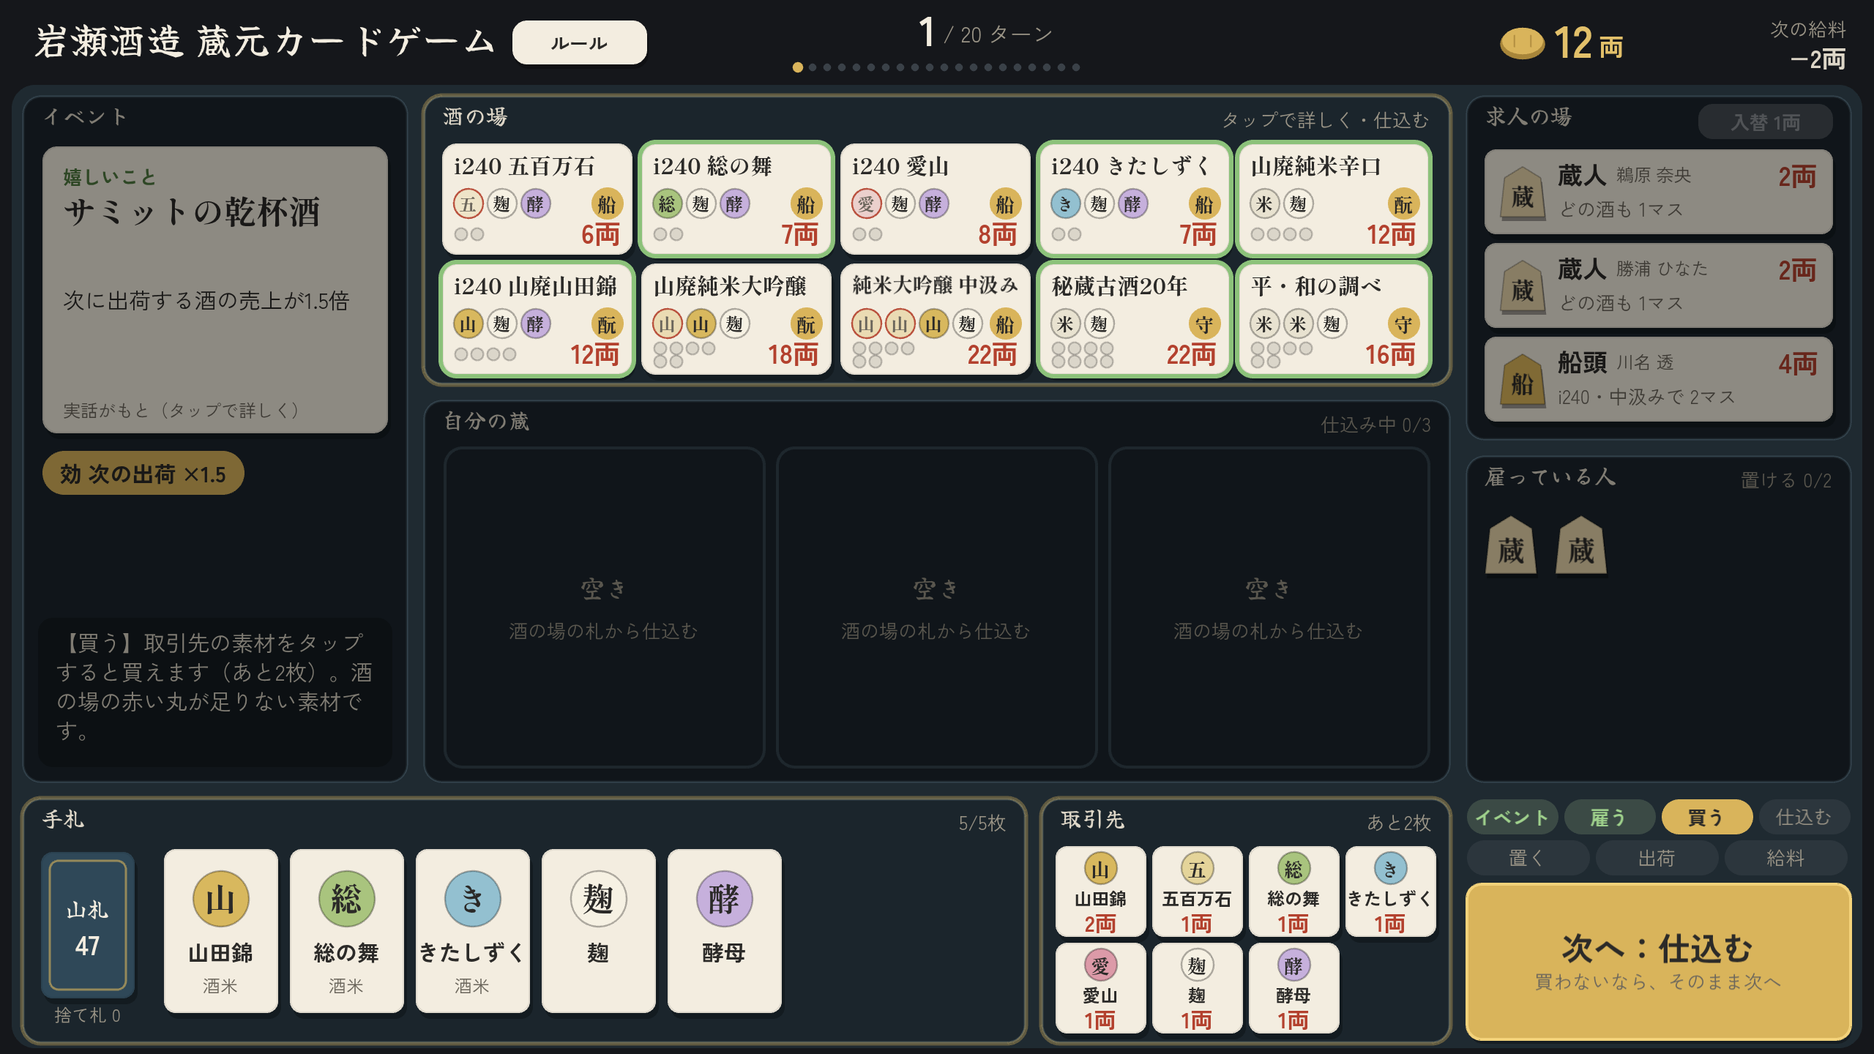
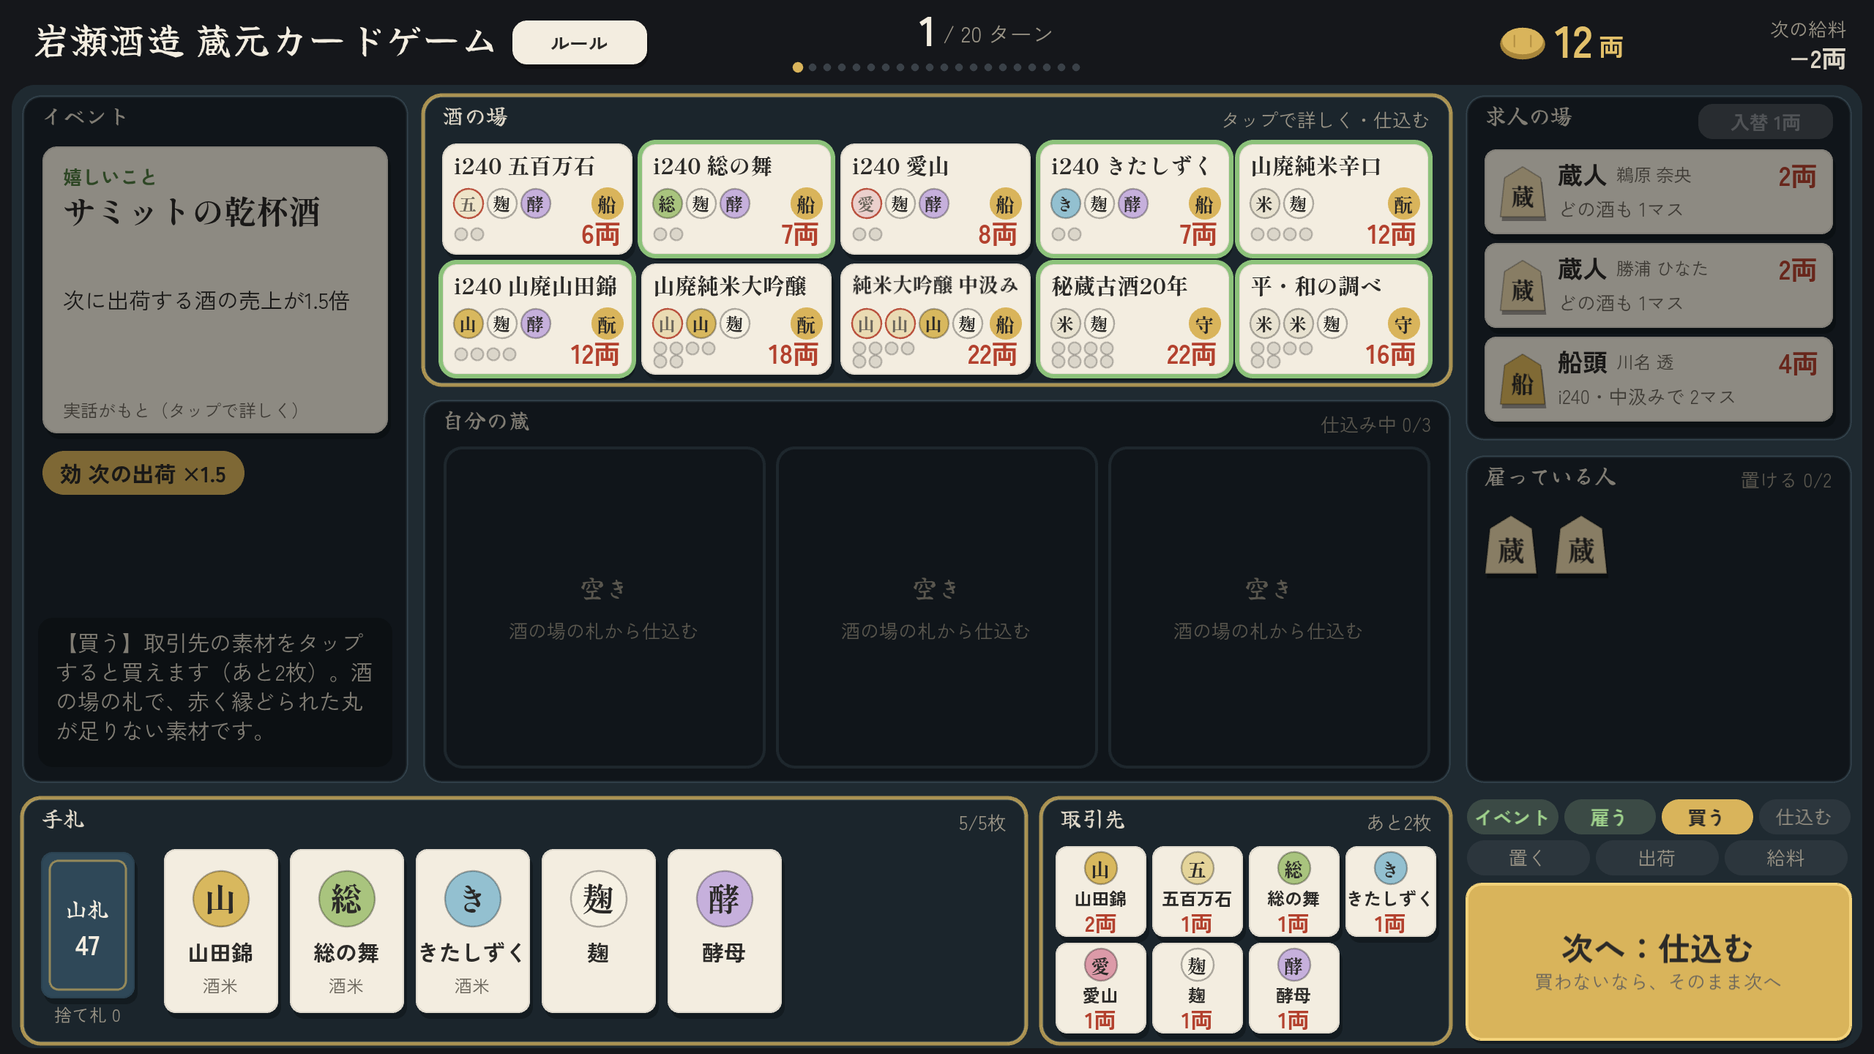
札の一言と説明文を読み直して直す
- 札の一言から「当社」をやめ、総の舞・きたしずく・山廃山田錦の一言に酒米や特徴を足す
- 賞の表記を主催に合わせて「三つ星」にそろえる
- 盤面の手順の説明に、タップすると何が出るか、蔵人と得意な人のマス数を書く
- 資料のページ: 課題の書き方、置く手順の説明、「置ける力」の意味、能力持ちの効果の書き方を直す

Claude-Session: https://claude.ai/code/session_01UAeAcfZ1BLHYPMnuNYJLjh

diff --git a/guide/index.html b/guide/index.html
@@ -47,7 +47,7 @@
           <div class="fact"><b>実在の酒が10種類</b><span>札には受賞歴や味、合う料理を載せています</span></div>
         </div>
         <p>岩瀬酒造は千葉県御宿町の酒蔵で、銘柄は「岩の井」です。このゲームでは、その蔵元になって酒を造って売ります。造る酒は、i240 シリーズや山廃、古酒など、実際に売られている酒です。</p>
-        <p>ハッカソンの課題のうち、「若い人が蔵のお酒を手に取る理由をつくる」に向けて作っています（想定）。遊ぶうちに酒の名前や受賞歴を覚え、終わったときの図鑑から蔵元直送ショップを見に行ける、という流れです。ゲームの中では購入や決済は扱いません。</p>
+        <p>ハッカソンでは6つの課題から1つを選びます。このゲームは「若い人が蔵のお酒を手に取る理由をつくる」に向けて作っています。遊ぶうちに酒の名前や受賞歴を覚え、終わったときの図鑑から蔵元直送ショップを見に行ける、という流れです。ゲームの中では購入や決済は扱いません。</p>
         <h3>設計の考え方</h3>
         <ul class="points">
           <li><b>酒に序列をつけない。</b>どの酒も最初から造れます。素材が多い酒、時間がかかる酒と、得になる資源を酒ごとに変えています。</li>
@@ -60,7 +60,7 @@
       <section id="play">
         <h2>遊び方</h2>
         <h3>はじめ</h3>
-        <p>所持金12両、蔵人2人から始めます。手札は素材3枚、求人の場には3人が並びます。</p>
+        <p>所持金12両、蔵人2人から始めます。手札は素材3枚、求人の場には3人が並びます。あとは毎ターン、右下の「次へ」で手順を進めるだけです。</p>
         <figure class="shot">
           <img src="../docs/images/rules-2.png" alt="盤面の見取り図。イベント、酒の場、自分の蔵、求人の場、雇っている人、手札、取引先、手順の札" loading="lazy" />
           <figcaption>盤面の見方。横画面に6か所の場をすべて並べ、一目で全体が見えるようにしています</figcaption>
@@ -87,11 +87,11 @@
           </li>
           <li>
             <img src="../docs/images/flow-6-place.png" alt="人を選ぶと、置いたときに埋まるマスが出る画面" loading="lazy" />
-            <div><b>置く</b><p>雇っている人を、仕込み中の酒に置きます。人を選ぶと、置いたときに何マス埋まるかが出ます。</p></div>
+            <div><b>置く</b><p>雇っている人の駒をタップし、仕込み中の酒をタップして置きます。蔵人はどの酒でも1マス、酛屋・船頭・蔵守は得意な酒で2マス埋めます。駒を選ぶと、置いたときに埋まるマスが酒の札に出ます。</p></div>
           </li>
           <li>
             <img src="../docs/images/flow-8-ship.png" alt="出荷の画面。売れた酒と売上と一言" loading="lazy" />
-            <div><b>出荷</b><p>置いた人の分だけおはじきが埋まり、全部埋まった酒が売れます。出荷の画面では、その酒の一言を大きく見せます。</p></div>
+            <div><b>出荷</b><p>右下の「仕込む」を押すと、置いた人の分だけおはじきが埋まり、全部埋まった酒が売れます。出荷の画面では、その酒の一言を大きく見せます。</p></div>
           </li>
           <li>
             <img src="../docs/images/flow-9-salary.png" alt="給料を払う画面" loading="lazy" />
@@ -140,7 +140,7 @@
           <li><b>同じ酒の値下がり。</b>同じ酒の2回目の出荷は80%、3回目からは60%です。営業を雇っていると1段ゆるくなります。</li>
           <li><b>出荷の効果。</b>「次に出荷する酒」の効果は1つだけ持てます。持っている間に出た効果は何も起きません。同じターンに2本以上出荷したら、いちばん高く売れる酒にかかります。</li>
           <li><b>売上の計算。</b>札の売上 → 値下がり → イベントの倍率 → 足し引き → 切り捨て、の順です。</li>
-          <li><b>置いた人。</b>何人でも同じ酒に置けます。置いた人は、外すまで次のターンもそのまま置いておけます。埋めたマスは、人を外しても残ります。</li>
+          <li><b>置いた人。</b>何人でも同じ酒に置けます。マスが余った分の働きは消えます。置いた人は、外すまで次のターンもそのまま置いておけます。埋めたマスは、人を外しても残ります。</li>
           <li><b>払った素材。</b>山札から引いた素材は、払うと捨て札に置き、山札が尽きたら混ぜ直します。取引先で買った素材は、払ったら取引先に戻ります。</li>
           <li><b>お金の使いどき。</b>出荷で入ったお金は、同じターンの雇う・買うには使えません。</li>
           <li><b>仕込みをやめる。</b>途中でやめられます。埋めたマスと払った素材は戻りません。</li>
@@ -166,11 +166,11 @@
 
       <section id="numbers">
         <h2>数字の確かめ</h2>
-        <p>ルールの数字は、画面と同じルールのモジュールを使う自動プレイで確かめています。雇い方の方針ごとに<span id="sim-runs"></span>回ずつ遊ばせ、20ターン後の所持金と廃業の割合を出しました。方針は人より下手なので、数字の傾向を見るためのものです。</p>
+        <p>ルールの数字は、画面と同じルールのモジュールを使う自動プレイで確かめています。雇い方の方針ごとに<span id="sim-runs"></span>回ずつ遊ばせ、20ターン後の所持金と廃業の割合を出しました。方針は人より下手なので、数字の傾向を見るためのものです。表の「置ける力」は、置いたときに埋まるマスの合計（蔵人1、専門職2）で、その数まで雇うという意味です。</p>
         <div class="table"><table id="sim-table"></table></div>
         <h3>分かったこと</h3>
         <ul class="points">
-          <li>誰も雇わないと平均94両前後。専門職（酛屋・船頭・蔵守）と蔵人を雇うと150両前後まで伸び、雇うほど点は上がります。</li>
+          <li>誰も雇わないと平均94両前後で、ランクは C。専門職（酛屋・船頭・蔵守）と蔵人を雇うと150両前後まで伸び、A に届きます。雇うほど点は上がります。</li>
           <li>その代わり、雇うほど廃業も増えます。最初の出荷の前に雇うと、序盤に給料が払えなくなりやすいです。</li>
           <li>麹屋・仕入れ係・帳場・営業は、1人足しても点が伸びません（雇わないより少し下がる）。効果が弱すぎるので、数字を見直す予定です。</li>
         </ul>

diff --git a/src/game/cards.ts b/src/game/cards.ts
@@ -43,13 +43,13 @@ export interface Sake {
 }
 
 export const SAKES: readonly Sake[] = [
-  { id: "gohyaku", name: "i240 五百万石", short: "i240 五百万石", needs: { 五百万石: 1, 麹: 1, 酵母: 1 }, gauge: 2, revenue: 6, spec: "船頭", tags: ["i240"], say: "i240の原点。シェフが選ぶ美酒アワード2026のフレンチ部門で三ツ星。" },
-  { id: "fusa", name: "i240 総の舞", short: "i240 総の舞", needs: { 総の舞: 1, 麹: 1, 酵母: 1 }, gauge: 2, revenue: 7, spec: "船頭", tags: ["i240"], say: "千葉県でしか栽培されていない酒米で造る。" },
+  { id: "gohyaku", name: "i240 五百万石", short: "i240 五百万石", needs: { 五百万石: 1, 麹: 1, 酵母: 1 }, gauge: 2, revenue: 6, spec: "船頭", tags: ["i240"], say: "i240の原点。シェフが選ぶ美酒アワード2026のフレンチ部門で三つ星。" },
+  { id: "fusa", name: "i240 総の舞", short: "i240 総の舞", needs: { 総の舞: 1, 麹: 1, 酵母: 1 }, gauge: 2, revenue: 7, spec: "船頭", tags: ["i240"], say: "千葉県でしか栽培されていない酒米「総の舞」で造る。" },
   { id: "aiyama", name: "i240 愛山", short: "i240 愛山", needs: { 愛山: 1, 麹: 1, 酵母: 1 }, gauge: 2, revenue: 8, spec: "船頭", tags: ["i240"], say: "希少な酒米。上品な甘みと果実の香り。" },
-  { id: "kita", name: "i240 きたしずく", short: "i240 きたしずく", needs: { きたしずく: 1, 麹: 1, 酵母: 1 }, gauge: 2, revenue: 7, spec: "船頭", tags: ["i240", "夏酒"], say: "北海道産の酒米で造る夏酒。" },
+  { id: "kita", name: "i240 きたしずく", short: "i240 きたしずく", needs: { きたしずく: 1, 麹: 1, 酵母: 1 }, gauge: 2, revenue: 7, spec: "船頭", tags: ["i240", "夏酒"], say: "北海道の酒米「きたしずく」で造る、i240 の夏酒。" },
   { id: "karakuchi", name: "山廃純米辛口", short: "山廃純米辛口", needs: { ANY: 1, 麹: 1 }, gauge: 4, revenue: 12, spec: "酛屋", tags: ["山廃"], say: "冷やからお燗まで。全国燗酒コンテスト2021金賞。" },
-  { id: "yamahai240", name: "i240 山廃・山田錦", short: "i240 山廃山田錦", needs: { 山田錦: 1, 麹: 1, 酵母: 1 }, gauge: 4, revenue: 12, spec: "酛屋", tags: ["i240", "山廃"], say: "全国燗酒コンテスト2024金賞。" },
-  { id: "daiginjo", name: "山廃純米大吟醸", short: "山廃純米大吟醸", needs: { 山田錦: 2, 麹: 1 }, gauge: 6, revenue: 18, spec: "酛屋", tags: ["山廃", "大吟醸"], say: "当社の最高級の酒。パーカーポイントで95点。" },
+  { id: "yamahai240", name: "i240 山廃・山田錦", short: "i240 山廃山田錦", needs: { 山田錦: 1, 麹: 1, 酵母: 1 }, gauge: 4, revenue: 12, spec: "酛屋", tags: ["i240", "山廃"], say: "i240 でただひとつの山廃仕込み。全国燗酒コンテスト2024金賞。" },
+  { id: "daiginjo", name: "山廃純米大吟醸", short: "山廃純米大吟醸", needs: { 山田錦: 2, 麹: 1 }, gauge: 6, revenue: 18, spec: "酛屋", tags: ["山廃", "大吟醸"], say: "蔵でいちばん格の高い酒。パーカーポイントで95点。" },
   { id: "nakagumi", name: "純米大吟醸・山田錦30%・中汲み", short: "純米大吟醸 中汲み", label: { head: "純米大吟醸 山田錦30%", body: "中汲み" }, needs: { 山田錦: 3, 麹: 1 }, gauge: 6, revenue: 22, spec: "船頭", tags: ["山田錦30%"], say: "兵庫県産山田錦を30%まで磨き、搾りの中ほどを取り分けた酒。" },
   { id: "koshu20", name: "秘蔵古酒20年", short: "秘蔵古酒20年", needs: { ANY: 1, 麹: 1 }, gauge: 8, revenue: 22, spec: "蔵守", tags: ["古酒"], say: "20年以上の熟成。チーズやチョコレートにも合う。" },
   { id: "heiwa", name: "平・和の調べ", short: "平・和の調べ", needs: { ANY: 2, 麹: 1 }, gauge: 6, revenue: 16, spec: "蔵守", tags: ["古酒"], say: "6種の古酒をソムリエがブレンド。鴨のローストに。" },
@@ -128,7 +128,7 @@ export interface GameEvent {
 
 export const EVENTS: readonly GameEvent[] = [
   { id: "summit", kind: "嬉しいこと", weight: 1, title: "サミットの乾杯酒", effect: "次に出荷する酒の売上が1.5倍", origin: "1986年の東京サミットの晩餐会で乾杯酒に選ばれた", buff: { kind: "mult", value: 1.5, label: "次の出荷 ×1.5" } },
-  { id: "bishu", kind: "嬉しいこと", weight: 1, title: "美酒アワードの三ツ星", effect: "次に出荷するi240の売上が1.5倍", origin: "i240 五百万石が「シェフが選ぶ美酒アワード2026」のフレンチ部門で三ツ星", buff: { kind: "mult", value: 1.5, tag: "i240", label: "次のi240 ×1.5" } },
+  { id: "bishu", kind: "嬉しいこと", weight: 1, title: "美酒アワードの三つ星", effect: "次に出荷するi240の売上が1.5倍", origin: "i240 五百万石が「シェフが選ぶ美酒アワード2026」のフレンチ部門で三つ星", buff: { kind: "mult", value: 1.5, tag: "i240", label: "次のi240 ×1.5" } },
   { id: "kanzake", kind: "嬉しいこと", weight: 1, title: "燗酒コンテスト金賞", effect: "次に出荷する山廃の酒の売上が1.5倍", origin: "山廃純米辛口（2021年）とi240 山廃・山田錦（2024年）が金賞", buff: { kind: "mult", value: 1.5, tag: "山廃", label: "次の山廃 ×1.5" } },
   { id: "parker", kind: "嬉しいこと", weight: 1, title: "パーカーポイント95点", effect: "次に出荷する山廃純米大吟醸の売上が2倍", origin: "山廃純米大吟醸がパーカーポイントで95点", buff: { kind: "mult", value: 2, only: "daiginjo", label: "次の大吟醸 ×2" } },
   { id: "crowd", kind: "嬉しいこと", weight: 1, title: "クラファン大成功", effect: "好きな素材を2枚、無料でもらえる", origin: "2026年、Makuakeでのヴィンテージ古酒のクラウドファンディングが、目標30万円に対し約229万円を集めた" },

diff --git a/src/scenes/BoardScene.ts b/src/scenes/BoardScene.ts
@@ -274,10 +274,10 @@ export class BoardScene extends Phaser.Scene {
     const head = s.message ? `${s.message}\n` : "";
     switch (this.step) {
       case "event": return s.message;
-      case "hire": return `${head}【雇う】求人の札をタップして、雇うか決めます。給料は毎ターン1人1両。雇わないなら「次へ」。`;
-      case "buy": return `${head}【買う】取引先の素材をタップすると買えます（あと${s.buysLeft}枚）。酒の場の赤い丸が足りない素材です。`;
-      case "brew": return `${head}【仕込む】酒の場の札をタップして仕込みます。緑に光る札は、いまの手札で仕込めます。`;
-      case "place": return `${head}【置く】雇っている人をタップし、自分の蔵の酒をタップして置きます。置けたら「仕込む」。`;
+      case "hire": return `${head}【雇う】求人の札をタップすると、その人の説明と「雇う」ボタンが出ます。給料は毎ターン1人1両。雇わないなら「次へ」。`;
+      case "buy": return `${head}【買う】取引先の素材をタップすると買えます（あと${s.buysLeft}枚）。酒の場の札で、赤く縁どられた丸が足りない素材です。`;
+      case "brew": return `${head}【仕込む】酒の場の札をタップすると説明と「仕込む」ボタンが出ます。緑に光る札は、いまの手札で仕込めます。`;
+      case "place": return `${head}【置く】雇っている人の駒をタップし、自分の蔵の酒をタップして置きます。蔵人は1マス、得意な人は2マス。置けたら右下の「仕込む」。`;
     }
   }
 

diff --git a/design.md b/design.md
@@ -206,13 +206,13 @@
 
 | 酒 | 必要な素材 | ゲージ（マス） | 売上（両） | 得意な担当 | 札の一言 |
 | --- | --- | --- | --- | --- | --- |
-| i240 五百万石 | 五百万石・麹・酵母 | 2 | 6 | 船頭 | i240の原点。シェフが選ぶ美酒アワード2026のフレンチ部門で三ツ星 |
-| i240 総の舞 | 総の舞・麹・酵母 | 2 | 7 | 船頭 | 千葉県でしか栽培されていない酒米 |
+| i240 五百万石 | 五百万石・麹・酵母 | 2 | 6 | 船頭 | i240の原点。シェフが選ぶ美酒アワード2026のフレンチ部門で三つ星 |
+| i240 総の舞 | 総の舞・麹・酵母 | 2 | 7 | 船頭 | 千葉県でしか栽培されていない酒米「総の舞」で造る |
 | i240 愛山 | 愛山・麹・酵母 | 2 | 8 | 船頭 | 希少な酒米。上品な甘みと果実の香り |
-| i240 きたしずく（夏酒） | きたしずく・麹・酵母 | 2 | 7 | 船頭 | 北海道産の酒米で造る夏酒 |
+| i240 きたしずく（夏酒） | きたしずく・麹・酵母 | 2 | 7 | 船頭 | 北海道の酒米「きたしずく」で造る、i240 の夏酒 |
 | 山廃純米辛口 | どの米でも・麹 | 4 | 12 | 酛屋 | 冷やからお燗まで。全国燗酒コンテスト2021金賞 |
-| i240 山廃・山田錦 | 山田錦・麹・酵母 | 4 | 12 | 酛屋 | 全国燗酒コンテスト2024金賞 |
-| 山廃純米大吟醸 | 山田錦×2・麹 | 6 | 18 | 酛屋 | 当社の最高級の酒。パーカーポイントで95点 |
+| i240 山廃・山田錦 | 山田錦・麹・酵母 | 4 | 12 | 酛屋 | i240 でただひとつの山廃仕込み。全国燗酒コンテスト2024金賞 |
+| 山廃純米大吟醸 | 山田錦×2・麹 | 6 | 18 | 酛屋 | 蔵でいちばん格の高い酒。パーカーポイントで95点 |
 | 純米大吟醸・山田錦30%・中汲み | 山田錦×3・麹 | 6 | 22 | 船頭 | 兵庫県産山田錦を30%まで磨き、搾りの中ほどを取り分けた酒 |
 | 秘蔵古酒20年 | どの米でも・麹 | 8 | 22 | 蔵守 | 20年以上の熟成。チーズやチョコレートにも合う |
 | 平・和の調べ | どの米でも×2・麹 | 6 | 16 | 蔵守 | 6種の古酒をソムリエがブレンド。鴨のローストに |
@@ -253,7 +253,7 @@
 | 札 | 種類 | 重み | 効果 | もとになった話 |
 | --- | --- | --- | --- | --- |
 | サミットの乾杯酒 | 嬉しいこと | 1 | 次に出荷する酒の売上が1.5倍 | 1986年の東京サミットの晩餐会で乾杯酒に選ばれた |
-| 美酒アワードの三ツ星 | 嬉しいこと | 1 | 次に出荷するi240の売上が1.5倍 | i240 五百万石が「シェフが選ぶ美酒アワード2026」のフレンチ部門で三ツ星 |
+| 美酒アワードの三つ星 | 嬉しいこと | 1 | 次に出荷するi240の売上が1.5倍 | i240 五百万石が「シェフが選ぶ美酒アワード2026」のフレンチ部門で三つ星 |
 | 燗酒コンテスト金賞 | 嬉しいこと | 1 | 次に出荷する山廃の酒の売上が1.5倍 | 山廃純米辛口（2021年）とi240 山廃・山田錦（2024年）が金賞 |
 | パーカーポイント95点 | 嬉しいこと | 1 | 次に出荷する山廃純米大吟醸の売上が2倍 | 山廃純米大吟醸がパーカーポイントで95点 |
 | クラファン大成功 | 嬉しいこと | 1 | 取引先から好きな素材を2枚、無料でもらえる | 2026年、Makuakeでのヴィンテージ古酒のクラウドファンディングが、目標30万円に対し約229万円を集めた |

diff --git a/docs/fact-check.md b/docs/fact-check.md
@@ -9,7 +9,7 @@
   - 「秘蔵古酒二十年」は、正しくは「秘蔵古酒20年」。ラベルの縦書きでは、数字を横に並べて「20」と見せます。
   - 中汲みの正式名は「純米大吟醸・山田錦30%・中汲み」。「大吟醸 中汲み」と略すと、純米大吟醸とは別の種類の酒に見えるので、短い名前は「純米大吟醸 中汲み」にしました。
   - 山廃純米大吟醸のパーカーポイント95点は、年が資料で割れています（プレスリリースは2017年、公式の英語サイトと Wine Advocate の最初の日本酒レポートは2016年）。採点したのも、パーカー本人ではなく同誌の評価者です。札からは年を外し、「パーカーポイントで95点」としました。
-  - 美酒アワードの正式名は「シェフが選ぶ美酒アワード2026」。
+  - 美酒アワードの正式名は「シェフが選ぶ美酒アワード2026」。主催の表記に合わせて「三つ星」にしました。
   - 南部の話は「南部杜氏」ではなく「南部から蔵人が来ている」（2024年の取材）。
   - クラウドファンディングは、秘蔵古酒20年ではなく、Makuake でのヴィンテージ古酒のセット。
 - 気をつけること: 山廃純米大吟醸は、いまの蔵元直送ショップには載っていません。公式サイトの商品紹介に名前はありますが、リンク先は見つかりませんでした。
